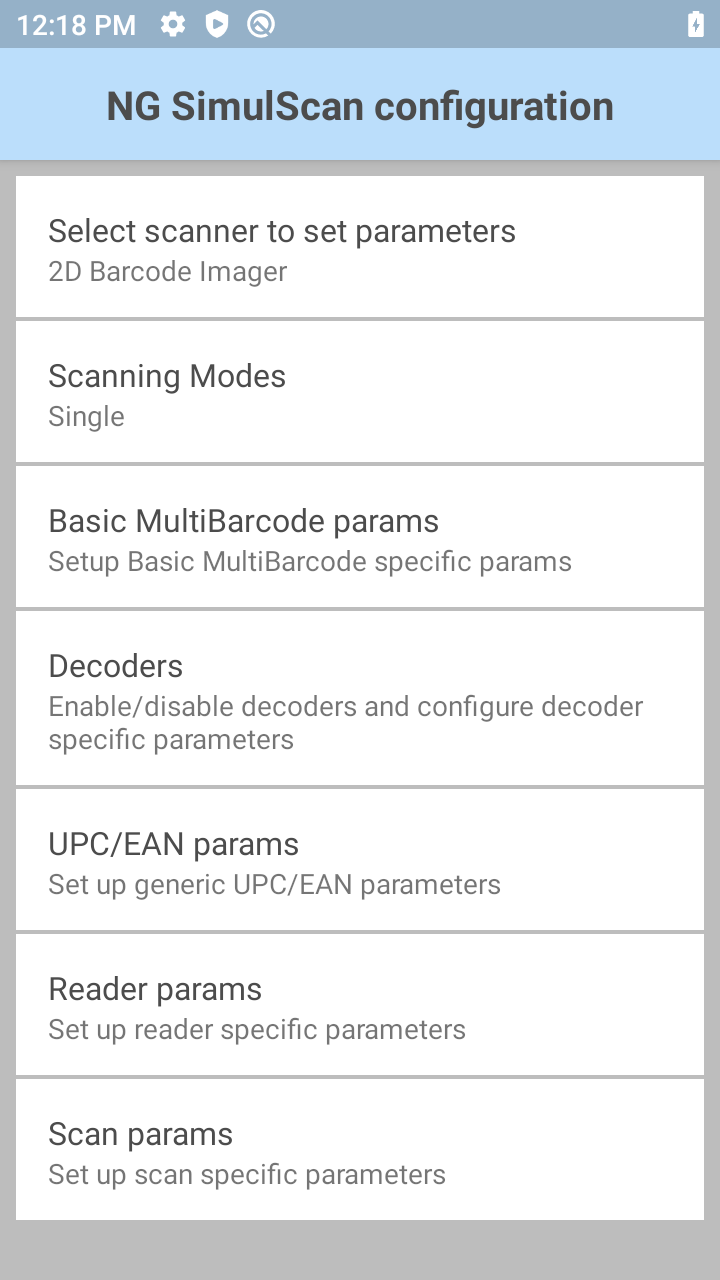
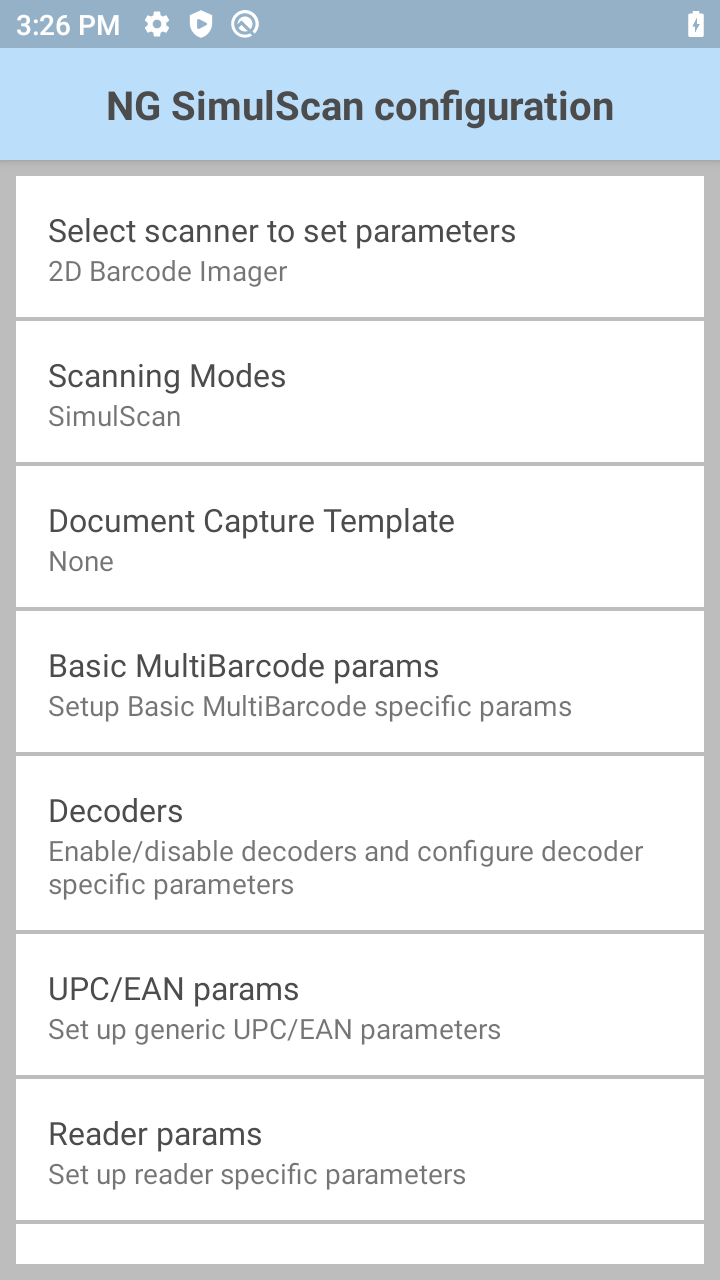
[TUT-40275] DW 8.0 - Update NextGen SimulScan configurations

diff --git a/src/datawedge/8-0/guide/input/barcode/index.md b/src/datawedge/8-0/guide/input/barcode/index.md
@@ -116,15 +116,32 @@ For Bluetooth scanners, if the device was not previously paired, a pairing barco
 
 ------
 
+## Configure Scanner Settings
+
+**Configure scanner settings** option is accessible through the DataWedge profile settings. It configures the scanner parameters specifying how the barcode is scanned, including the selected scanner (e.g. camera, 2D Imager, Bluetooth scanner, etc.), decoder, decoder parameters, reader params and scan params. Refer to the corresponding sections below for further information.
+<br>
+
+<img style="height:350px" src="configure_scanner_settings.png"/>
+_Profile settings_
+
+Tap **Configure scanner settings**. A list of scanner configuration settings appears.
+
+<img style="height:350px" src="configure_scanner_settings_options.png"/>
+_Scanner configuration_
+
+**Note:** The **Configure scanner settings** option is still accessible even when the selected scanner in **Scanner Selection** is disconnected. _In previous DataWedge versions prior to 6.8, all the scanner parameters (decoders, decoder params, etc.) are grayed-out and inaccessible._
+
+------
+
 ## NextGen SimulScan Configuration
 
-**NextGen (NG) Simulscan Configuration** is configuration transferred from legacy SimulScan Input of DataWedge. Currently not all legacy SimulScan features are available, but migration of these features into NextGen SimulScan is a continuous effort. Currently, the following features are now part of NextGen SimulScan:
+**NextGen (NG) Simulscan Configuration** is configuration transferred from legacy SimulScan Input of DataWedge previously deprecated. Not all legacy SimulScan features are available - migration of these features into NextGen SimulScan is a continuous effort. Currently, the following features are part of NextGen SimulScan:
 * Multibarcode
 * Anchor barcode document capture (only available on select devices)
 <br>
 <p>For Zebra Professional-tier devices, this feature requires a Mobility DNA Enterprise license. The following message is displayed when attempting to access this feature on a Zebra Professional-tier device without a valid license:</p>
 <img style="height:350px" src="license_required.png"/>
-_Profile settings_
+_License required on Zebra Professional-tier devices_
 
 To access NextGen SimulScan Configurations:<br>
 1. In the DataWedge profile, tap **Configure NG SimulScan settings**.
@@ -135,16 +152,40 @@ _DataWedge profile displaying NG SimulScan_
  <img style="height:350px" src="ng_simulscan_configuration.png"/>
 _NextGen (NG) SimulScan configuration_
 
-Aside from **Scanning Modes** and **Basic MultiBarcode Params** as described below, the other options are common to those displayed under **Configure scanner settings**.
+Aside from **[Scanning Modes](#documentcapturetemplate)**, **[Document Capture Template](#documentcapturetemplate)** and **[Basic MultiBarcode Params](#basicmultibarcodeparams)**, the other options are common to those displayed under **Configure scanner settings**.
 
 ### Scanning Modes
 
-**Scanning Modes** is used to select between Single (normal), [Basic MultiBarcode](#basicmultibarcodeparams) and SimulScan Modes.
- <img style="height:350px" src="ng_simulscan_scanning_modes.png"/>
-_NextGen (NG) SimulScan - Scanning Modes_
+**Scanning Modes** is used to select the mode to scan barcodes: 
+* **Single -** normal mode to scan an individual barcode 
+* **[Basic MultiBarcode](#basicmultibarcodeparams) -** multiple barcodes read in a single scan 
+* **[SimulScan](#documentcapturetemplate) -** document capture based on a specified custom template
+
+<table>
+
+ <tr>
+  <td>
+  <img style="height:350px" src="ng_simulscan_scanning_modes.png"/>
+  </td>
+  <td> &nbsp; &nbsp; &nbsp; &nbsp;
+  </td>
+  <td>
+  <img style="height:350px" src="scanning_modes_ngss.png"/>
+  </td>
+ </tr>
+
+</table>
+<i>NextGen (NG) SimulScan - Scanning Modes</i>
+
+### Document Capture Template
+
+**Document Capture Template** specifies the template to be used for document capture with **SimulScan** scanning mode. Tap on this option then select a template for the document being captured. It is mandatory to enable **[Use content providers](../../output/intent/#intentoutputsetup)** option in Intent Output to retrieve scanned data. Refer to **[SimulScan template](/mx/datawedgemgr)** section of DataWedge Manager CSP on how to add a template to this selection. 
+
+<img style="height:350px" src="document_capture_ngss.png"/>
+_SimulScan - Document Capture_
 
 ### Basic MultiBarcode Params
-MultiBarcode acquires multiple, unique barcodes in a single scan session and delivers the data either immediately or after the specified number of barcodes per scan is reached. 
+**MultiBarcode** acquires multiple, unique barcodes in a single scan session and delivers the data either immediately or after the specified number of barcodes per scan is reached. 
 
 <table>
 
@@ -160,9 +201,9 @@ MultiBarcode acquires multiple, unique barcodes in a single scan session and del
  </tr>
 
 </table>
-<i>Access to Basic MultiBarcode params</i>
+<i>Basic MultiBarcode params</i>
 
-Basic MultiBarcode params:
+Basic MultiBarcode params options:
 * **Instant Reporting -** Enable/Disable instantaneous reporting of unique barcodes within a scanning session (duplicates are ignored). If enabled, it ignores the value of **Number of barcodes per scan** and immediately reports the scanned data. If disabled _(default)_, the decoded data is returned as a single entity after reaching the specified **Number of barcodes per scan**.
 * **Number of barcodes per scan-** Specify the number of unique barcodes to be decoded with each scan session before sending the scanned data. This setting does not take effect if **Instant Reporting** is enabled. For example, if 5 is specified, the scanner does not send the data until 5 barcodes are scanned. _Default value: 5; value range: 2 to 100._
 * **Report Decoded Barcodes -** Enable/Disable reporting of decoded barcode data in a single scan session irrespective of the specified **Number of barcodes per scan**. Consider the following behavior when **Report Decoded Barcodes** is enabled:
@@ -170,7 +211,7 @@ Basic MultiBarcode params:
 	* If **Instant Reporting** is also enabled, **Instant Reporting** takes higher priority.
 
 
-**MultiBarcode Notes**
+**MultiBarcode Notes:**
 
 * **Acquired data from all barcodes is delivered as a single string** when output as keystrokes. To add separators and adjust output order, see the [Keystroke Output guide](../../output/keystroke/#multibarcodedataoutput). 
 * MultiBarcode supports a **maximum data size of 2000 bytes.** 

diff --git a/src/datawedge/8-0/guide/output/intent/index.md b/src/datawedge/8-0/guide/output/intent/index.md
@@ -69,8 +69,6 @@ See [Use Content Provider Programmer's Guide](../../programmers-guides/content-p
 
 >**Important**: For scanning applications that output directly to an activity, **the activity must be designated as "singleTop"** in the app's `AndroidManifest.xml` file. Failure to designate an activity in this way will cause an instance of the activity to be launched with every decode, and the acquired data sent to each newly spawned instance. 
 
------
-
 **To configure DataWedge with Intent Output options**: 
 
 **&#49;. Locate the Intent Output section of the Profile** being configured.
